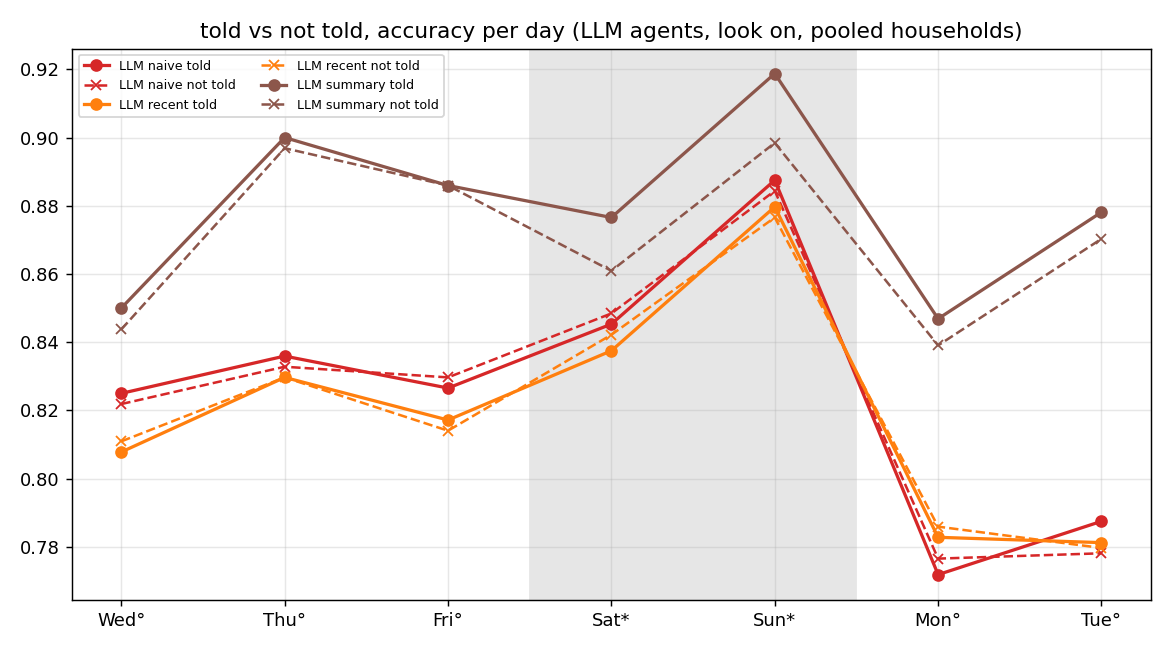
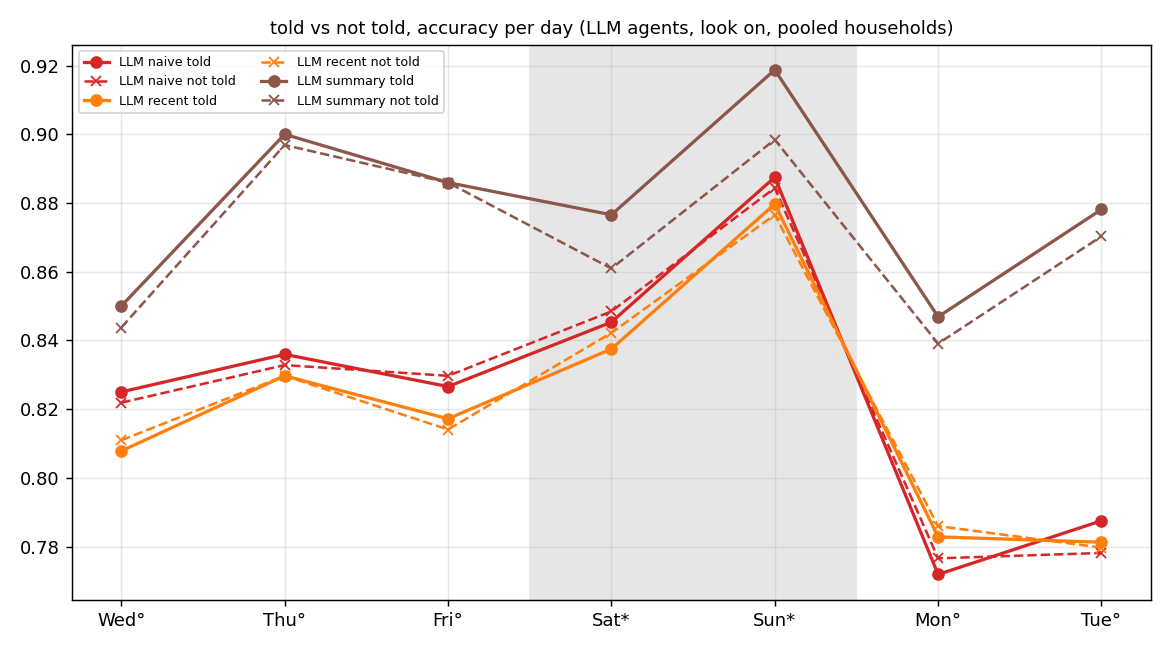
patrol figures: --spot-only renders every figure on in-house spot truths only (ON_PERSON / OUT_OF_HOUSE questions dropped); figs_spot/

diff --git a/src/baselines/patrol/figures.py b/src/baselines/patrol/figures.py
@@ -74,11 +74,16 @@ def main(argv=None) -> int:
     ap.add_argument("--out", type=pathlib.Path, required=True)
     ap.add_argument("--density", type=int, default=4, help="patrol density for the per-day figures")
     ap.add_argument("--all", action="store_true", help="every agent in the logs (default: the MAIN roster only)")
+    ap.add_argument("--spot-only", action="store_true",
+                    help="score only questions whose truth is an in-house spot (drop ON_PERSON / OUT_OF_HOUSE truths, which no look can reach)")
     a = ap.parse_args(argv)
     a.out.mkdir(parents=True, exist_ok=True)
     rows = load_logs([p for pat in a.logs for p in glob.glob(pat)])
     if not a.all:
         rows = [r for r in rows if in_main(r.get("agent") or r["belief"])]
+    if a.spot_only:
+        rows = [r for r in rows if truth_kind(r["truth"]) == "spot"]
+    scope = " · in-house spot truths only" if a.spot_only else ""
     shift, names, moved = shift_days_from_banks([p for pat in a.banks for p in glob.glob(pat)])
     for r in rows:
         r["agent"] = r.get("agent") or r["belief"]
@@ -103,8 +108,9 @@ def main(argv=None) -> int:
             continue
         agents = sorted({r["agent"] for r in sub})
         cells = group(sub, ("agent", "day_index"), None)
-        fig, axes = plt.subplots(1, 2, figsize=(13, 5), sharey=False)
-        for ax, kinds, title in ((axes[0], None, "all questions"), (axes[1], ("spot",), "in-house spot truths only")):
+        panels = ((None, "in-house spot truths only"),) if a.spot_only else ((None, "all questions"), (("spot",), "in-house spot truths only"))
+        fig, axes = plt.subplots(1, len(panels), figsize=(6.5 * len(panels), 5), sharey=False, squeeze=False); axes = axes[0]
+        for ax, (kinds, title) in zip(axes, panels):
             for ag in agents:
                 ys = []
                 for d in days:
@@ -113,8 +119,8 @@ def main(argv=None) -> int:
                 ax.plot(range(len(days)), ys, marker="o", ms=4, lw=1.8, label=label(ag), color=color(ag), ls=style(ag))
             shade(ax)
             ax.set_xticks(range(len(days))); ax.set_xticklabels(labels); ax.set_ylim(0.5, 1.0); ax.grid(alpha=0.3)
-            ax.set_title(f"accuracy per day, patrol every {a.density} h, look {'/'.join(look_set)} — {title}")
-        axes[1].legend(fontsize=8, ncol=1, loc="lower left")
+            ax.set_title(f"accuracy per day, patrol every {a.density} h, look {'/'.join(look_set)} — {title}", fontsize=10)
+        axes[-1].legend(fontsize=8, ncol=1, loc="lower left")
         fig.text(0.01, 0.01, "* every household shifts that day (weekend, grey); ° some households (guests / illness); LLM dashed = told the residents' messages, dotted = not told", fontsize=8)
         fig.tight_layout(); fig.savefig(a.out / fname, dpi=130); plt.close(fig)
 
@@ -131,7 +137,7 @@ def main(argv=None) -> int:
             ax.plot(dens, [cells[(ag, d)].acc_all for d in dens], marker="o", lw=1.8, label=label(ag), color=color(ag), ls=style(ag))
         all_dens = sorted({r["patrol_hours"] for r in sub})
         ax.set_xscale("log", base=2); ax.set_xticks(all_dens); ax.set_xticklabels([f"every {d} h" for d in all_dens])
-        ax.set_title(f"accuracy vs patrol density, look {'/'.join(lks)}"); ax.grid(alpha=0.3); ax.set_ylim(0.6, 1.0)
+        ax.set_title(f"accuracy vs patrol density, look {'/'.join(lks)}{scope}", fontsize=10); ax.grid(alpha=0.3); ax.set_ylim(0.6, 1.0)
         ax.legend(fontsize=8, ncol=1)
     fig.tight_layout(); fig.savefig(a.out / "fig2_accuracy_vs_density.png", dpi=130); plt.close(fig)
 
@@ -139,6 +145,8 @@ def main(argv=None) -> int:
     rows_all = load_logs([p for pat in a.logs for p in glob.glob(pat)])
     for r in rows_all:
         r["agent"] = r.get("agent") or r["belief"]
+    if a.spot_only:
+        rows_all = [r for r in rows_all if truth_kind(r["truth"]) == "spot"]
     told = sorted({r["agent"] for r in rows_all if "/told/" in r["agent"] and r["look"] in ("llm",)})
     if told:
         fig, ax = plt.subplots(figsize=(9, 5))
@@ -149,7 +157,7 @@ def main(argv=None) -> int:
             ax.plot(range(len(days)), [cells.get((ag, d), Cell()).acc_all for d in days], marker="o", lw=1.8, color=c, label=short(ag).replace("/told", "") + " told")
             ax.plot(range(len(days)), [cells.get((nt, d), Cell()).acc_all for d in days], marker="x", ls="--", lw=1.4, color=c, label=short(nt).replace("/not_told", "") + " not told")
         shade(ax); ax.set_xticks(range(len(days))); ax.set_xticklabels(labels); ax.grid(alpha=0.3); ax.legend(fontsize=7, ncol=2)
-        ax.set_title("told vs not told, accuracy per day (LLM agents, look on, pooled households)")
+        ax.set_title(f"told vs not told, accuracy per day (LLM agents, look on, pooled households){scope}", fontsize=10)
         fig.tight_layout(); fig.savefig(a.out / "fig3_told_vs_not_told.png", dpi=130); plt.close(fig)
 
     # 4. abstain rate and answered accuracy per day at threshold 0.5 (look voi / llm)
@@ -167,7 +175,7 @@ def main(argv=None) -> int:
                 lab = label(ag) + ("" if thr else " · outright ABSTAIN only")
                 axes[0].plot(range(len(days)), [cells.get((ag, d), Cell()).abstain_rate for d in days], marker="o", ms=4, lw=1.8, ls=(style(ag) if thr else "-."), color=color(ag), label=lab, alpha=1 if thr else .7)
                 axes[1].plot(range(len(days)), [cells.get((ag, d), Cell()).acc_answered for d in days], marker="o", ms=4, lw=1.8, ls=(style(ag) if thr else "-."), color=color(ag), label=lab, alpha=1 if thr else .7)
-        for ax, t in zip(axes, ("abstain rate per day (abstain when top probability < 0.5)\nLLM dashed = told, dotted = not told; dash-dot = the LLM's own ABSTAIN answers only", "accuracy among the questions actually answered")):
+        for ax, t in zip(axes, ("abstain rate per day (abstain when top probability < 0.5)\nLLM dashed = told, dotted = not told; dash-dot = the LLM's own ABSTAIN answers only", f"accuracy among the questions actually answered{scope}")):
             shade(ax); ax.set_xticks(range(len(days))); ax.set_xticklabels(labels); ax.grid(alpha=0.3); ax.set_title(t, fontsize=10)
         axes[0].legend(fontsize=8, ncol=1, loc="center")
         fig.tight_layout(); fig.savefig(a.out / "fig4_abstain_per_day.png", dpi=130); plt.close(fig)
